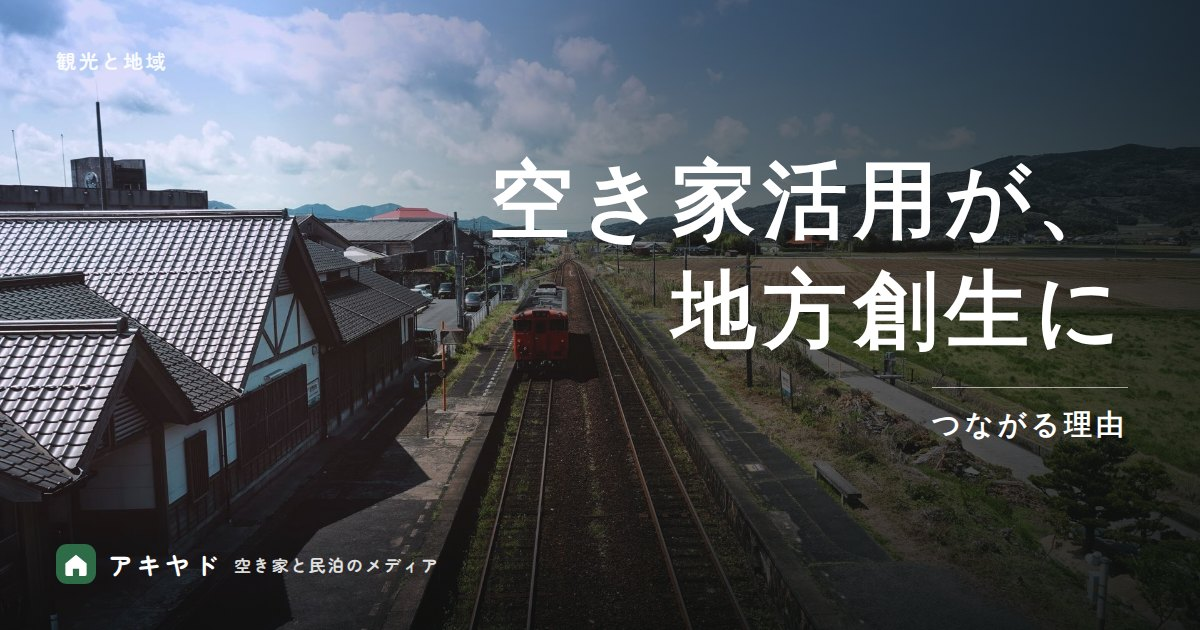
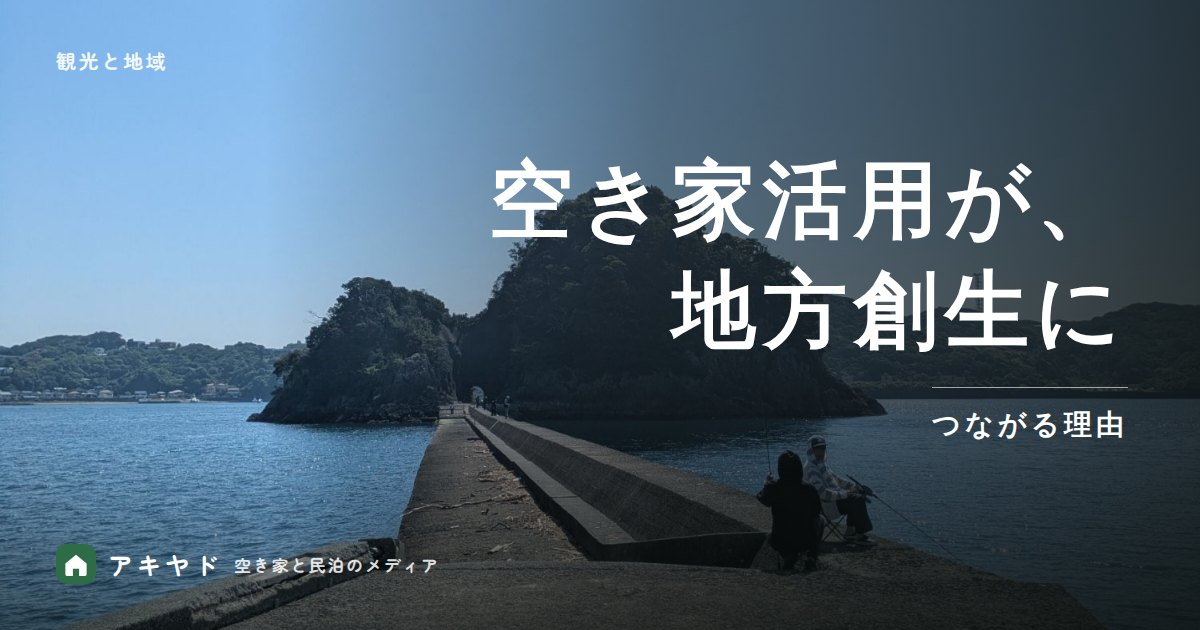
いただいた下田の海の写真（釣り・堤防と島・湾）を3記事のアイキャッチに使用
Claude-Session: https://claude.ai/code/session_01QhiMqAcoNGYrh5Cz1K4JLP

diff --git a/tools/eyecatch_designs.py b/tools/eyecatch_designs.py
@@ -63,14 +63,14 @@ DESIGNS = {
     "case-rental-house-inn-first-year": dict(layout="number", big="14", unit="か月", lines=["下田の一軒家を宿に。", "[初期投資を回収]するまで"], color="deep"),
     "minpaku-hard-truth": dict(layout="quote", lines=["「民泊は大変」", "って[本当？]"], color="sand"),
     "minpaku-neighbor-rules": dict(layout="frame", lines=["近隣トラブルを防ぐ", "[ルールづくり]"], color="mustard"),
-    "minpaku-off-season": dict(layout="mincho", lines=["閑散期を、", "どう越える"], sub="売上の波をならす工夫"),
+    "minpaku-off-season": dict(layout="mincho", lines=["閑散期を、", "どう越える"], sub="売上の波をならす工夫", photo="own-fishing-bay", pos="50% 30%"),
     "minpaku-remote-operation": dict(layout="giant", big="遠隔運営", lines=["遠方の物件でも、", "[運営できる？]"]),
     "long-stay-guest-equipment": dict(layout="marker", lines=["長期滞在のゲストに", "[選ばれる設備]"], photo="own-sofa-room", pos="60% 45%"),
 
     # ---- 観光と地域
     "japan-tourism-market-data": dict(layout="number", big="5", unit="つの課題", lines=["データで見る日本の観光市場と", "[地方が抱える課題]"], color="navy"),
-    "akiya-regional-revitalization": dict(layout="mincho", lines=["空き家活用が、", "地方創生に"], sub="つながる理由"),
-    "long-stay-travel-demand": dict(layout="mincho", lines=["暮らすように、", "旅をする"], sub="長期滞在が広がる理由"),
+    "akiya-regional-revitalization": dict(layout="mincho", lines=["空き家活用が、", "地方創生に"], sub="つながる理由", photo="own-breakwater-island", pos="50% 55%"),
+    "long-stay-travel-demand": dict(layout="mincho", lines=["暮らすように、", "旅をする"], sub="長期滞在が広がる理由", photo="own-open-sea", pos="50% 45%"),
     "inn-local-economy": dict(layout="boxes", lines=["宿が地域に", "[お金を落とす]", "仕組み"]),
     "inbound-regional-dispersion": dict(layout="giant", big="訪日客を地方へ", lines=["[インバウンドの地方分散]"]),
     "tourism-labor-shortage": dict(layout="quote", lines=["観光業の人手不足を", "[どう乗り越える？]"], color="sand"),
